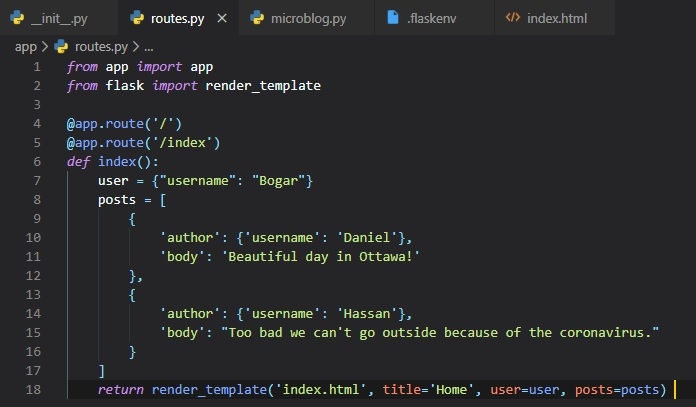
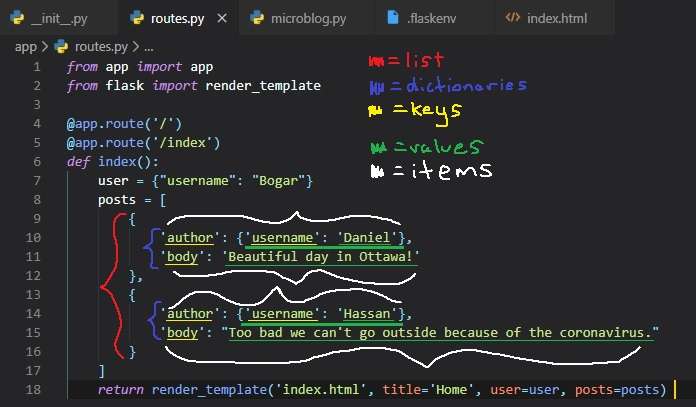
edited the photo for adding posts

diff --git a/write-up.html b/write-up.html
@@ -236,6 +236,11 @@
                         </ol>
 
                 </section>
+
+
+
+                <section id="chapter2">
+
                     <h2><a name="chapter2">Chapter 2: Templates</a></h2>
 
                     <h3><u>Introduction To Templates</u></h3>
@@ -271,11 +276,12 @@
                     <p>Once again, we're going to make use of mock users and also some new mock posts to display users and their posts on the home page. 
                         <br><br><img src="./img/adding posts.jpg">
                     </p>
-                    <p>I know that this These posts are stored as two separate dictionaries inside of the posts list. 
+                    <p>I know that this can seem pretty complex, but I'll try explaining these different data types and colour-coding parts of it in the image. 
+                        To represent user posts we'll be using a list. Inside this list, there'll be two dictionaries with "author" and "body" fields.
+                        The first dictionary item's "author" field has a dictionary as its value, and in this dictionary, lies the key('username') along 
+                        with the value('Daniel'). 
 
 
-
-                <section id="chapter2">
 
                 </section>
                 
